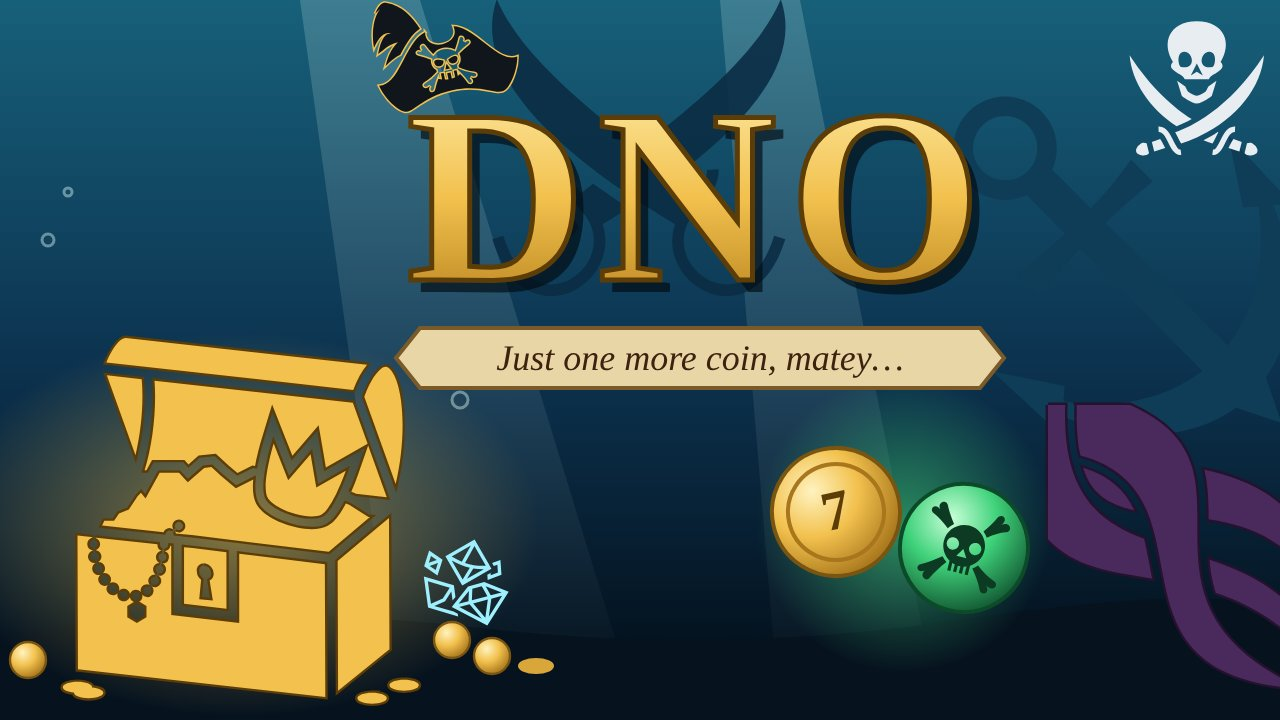
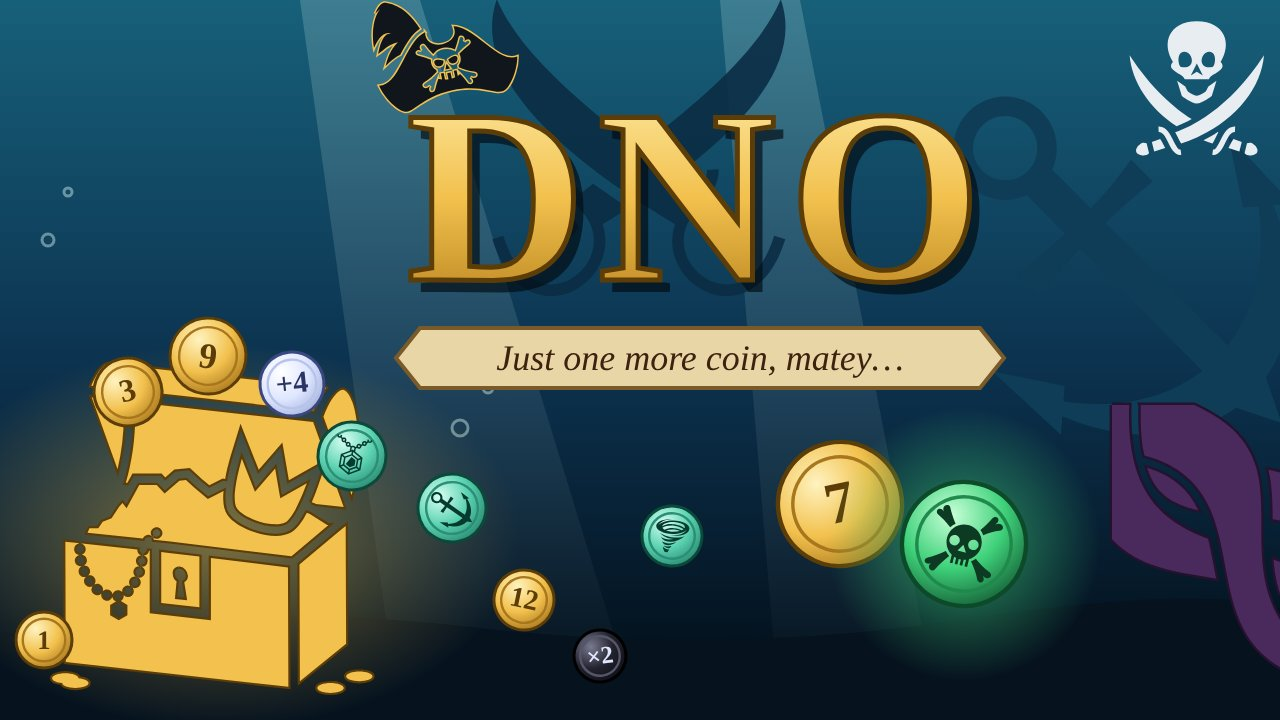
Сборка: обложки с жетонами
Claude-Session: https://claude.ai/code/session_01FnbEeTMziFAQPZN4FSZh7h

Changed region(s): [[0.0, 0.4278, 0.5, 0.9778], [0.5938, 0.55, 1.0, 0.9778], [0.5, 0.7028, 0.5625, 0.7944]]

diff --git a/README.md b/README.md
@@ -1,5 +1,5 @@
 # Dno — сборка
 
 Собранный клиент игры «Дно» / Dno для Telegram Mini App (t.me/dnogamebot/play).
-Исходники — в приватном репозитории; здесь только сборка. Коммит исходников: b01c7a6.
+Исходники — в приватном репозитории; здесь только сборка. Коммит исходников: f032815.
 Иконки — game-icons.net, CC BY 3.0, авторы в CREDITS.md.
